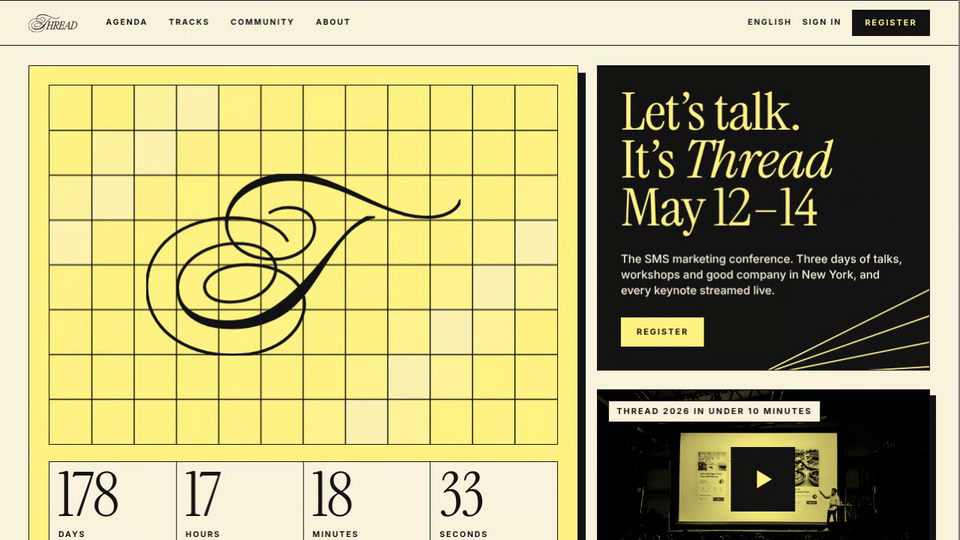
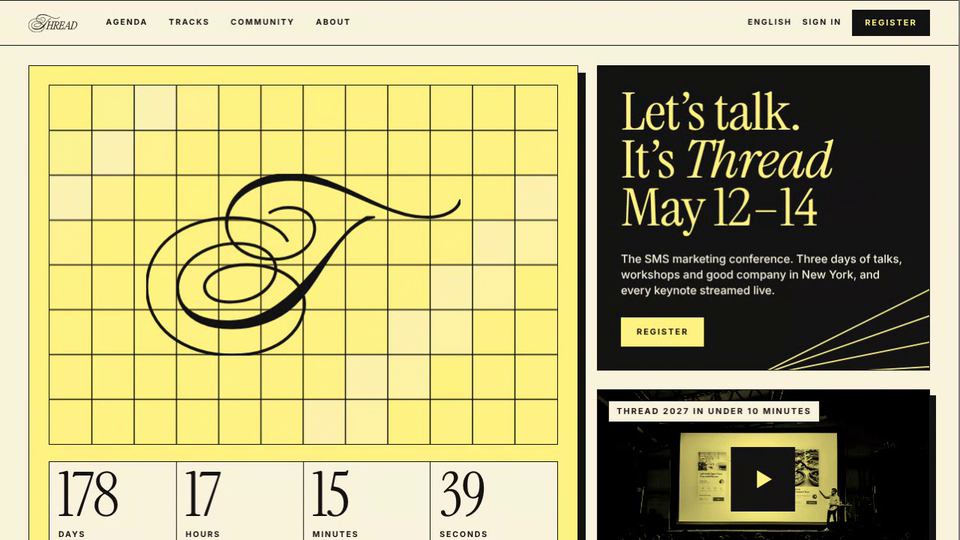
Thread Conference Landing Page: countdown to Thread 2027, no grid on the Connect card, footer says 2027 (#360)
Claude-Session: https://claude.ai/code/session_01AHeBe1E3DCKJgm5k1K7BVJ

diff --git a/thread-conference-landing/index.html b/thread-conference-landing/index.html
@@ -3,7 +3,7 @@
 <head>
 <meta charset="utf-8">
 <meta name="viewport" content="width=device-width, initial-scale=1">
-<title>Thread 2026 Landing Page</title>
+<title>Thread 2027 Landing Page</title>
 <link rel="preconnect" href="https://fonts.googleapis.com">
 <link href="https://fonts.googleapis.com/css2?family=Instrument+Serif:ital@0;1&family=Pinyon+Script&family=Inter:wght@400;500;600;700&display=swap" rel="stylesheet">
 <style>
@@ -116,9 +116,8 @@ header.site .btn{padding:11px 16px}
 .cd .loop{position:absolute;right:0;bottom:0;width:min(62%,520px);aspect-ratio:400/260;pointer-events:none}
 .cd.k{background:var(--ink);color:var(--yellow)}.cd.k p{color:var(--cream)}
 .cd.y{background:var(--yellow);box-shadow:10px 10px 0 var(--ink)}
-.cd .grid{position:absolute;right:0;top:0;width:40%;height:100%;opacity:.55;pointer-events:none}
-.cd>*{position:relative}.cd>.grid,.cd>.loop{position:absolute}
-@media (max-width:860px){.two{grid-template-columns:1fr}.cd .grid{width:80%;opacity:.35}}
+.cd>*{position:relative}.cd>.loop{position:absolute}
+@media (max-width:860px){.two{grid-template-columns:1fr}}
 /* footer */
 footer{display:flex;align-items:center;gap:26px;flex-wrap:wrap;padding:22px var(--gut);border-top:1.5px solid var(--ink);font:700 10.5px/1 var(--sans);letter-spacing:.16em;text-transform:uppercase}
 footer svg{height:22px;width:auto}
@@ -127,19 +126,19 @@ footer .r{margin-left:auto;display:flex;gap:16px}
 </style>
 </head>
 <body>
-<nav class="back" aria-label="Sandbox"><a href="../">Sandbox</a><span>/</span><a href="../">Back to all projects</a><span>/</span><b>Thread 2026 Landing Page</b></nav>
+<nav class="back" aria-label="Sandbox"><a href="../">Sandbox</a><span>/</span><a href="../">Back to all projects</a><span>/</span><b>Thread 2027 Landing Page</b></nav>
 
 <header class="site">
-  <a class="logo" href="#top" aria-label="Thread 2026"><svg class="wm" viewBox="673 5 2485 918" role="img" aria-hidden="true"></svg></a>
+  <a class="logo" href="#top" aria-label="Thread 2027"><svg class="wm" viewBox="673 5 2485 918" role="img" aria-hidden="true"></svg></a>
   <div class="links"><a href="#agenda">Agenda</a><a href="#tracks">Tracks</a><a href="#community">Community</a><a href="#about">About</a></div>
   <div class="r"><a class="t" href="#">English</a><a class="t" href="#">Sign in</a><a class="btn" href="#register">Register</a></div>
 </header>
 
 <main id="top">
 <section class="hero">
-  <div class="frame" aria-label="Countdown to Thread 2026">
+  <div class="frame" aria-label="Countdown to Thread 2027">
     <div class="art"><canvas id="bg" aria-hidden="true"></canvas><svg class="sw" viewBox="673 5 1587 918" role="img" aria-label="Thread"></svg></div>
-    <div class="count" id="count" role="timer" aria-label="Time until Thread 2026 begins">
+    <div class="count" id="count" role="timer" aria-label="Time until Thread 2027 begins">
       <div><b data-u="d">00</b><span>Days</span></div><div><b data-u="h">00</b><span>Hours</span></div>
       <div><b data-u="m">00</b><span>Minutes</span></div><div><b data-u="s">00</b><span>Seconds</span></div>
     </div>
@@ -151,9 +150,9 @@ footer .r{margin-left:auto;display:flex;gap:16px}
       <svg class="stripes" viewBox="0 0 200 120" fill="none" stroke="#fff383" stroke-width="1.5" aria-hidden="true"><path d="M0 120 200 20M0 120 200 50M0 120 200 80M0 120 200 108"/></svg>
       <a class="btn y" href="#register">Register</a>
     </div>
-    <a class="trailer" href="#about" aria-label="Watch Thread 2026 in under 10 minutes">
+    <a class="trailer" href="#about" aria-label="Watch Thread 2027 in under 10 minutes">
       <img src="photos/keynote.jpg" alt="A speaker presenting on a lit stage in front of a large screen and a dark audience">
-      <span class="lab cap">Thread 2026 in under 10 minutes</span>
+      <span class="lab cap">Thread 2027 in under 10 minutes</span>
       <span class="play"><svg viewBox="0 0 30 30" aria-hidden="true"><path d="M7 3v24l20-12z" fill="currentColor"/></svg></span>
     </a>
   </div>
@@ -184,16 +183,15 @@ footer .r{margin-left:auto;display:flex;gap:16px}
 </section>
 
 <section class="two" id="community">
-  <div class="cd k"><svg class="grid" viewBox="0 0 300 380" fill="none" stroke="#fff383" stroke-width="1.2" preserveAspectRatio="none" aria-hidden="true"><path d="M0 40H300M0 120H300M0 200H300M0 280H300M0 360H300M50 0V380M130 0V380M210 0V380M290 0V380"/></svg>
-    <canvas class="loop" id="loop" aria-hidden="true"></canvas>
+  <div class="cd k"><canvas class="loop" id="loop" aria-hidden="true"></canvas>
     <h2><span class="wide">Connect with marketers</span></h2><p>Join the Thread community of SMS marketers around the world: meetups, office hours and a very active group chat.</p><a class="btn y" href="#community">Find a community</a></div>
   <div class="cd y" id="about"><h2><span class="wide">Thread is open to everyone online</span></h2><p>Stay informed and get answers to your top questions, wherever you are.</p><a class="btn" href="#about">Learn about Thread</a></div>
 </section>
 </main>
 
 <footer>
-  <svg class="wm" viewBox="673 5 2485 918" aria-label="Thread 2026"></svg>
-  <a href="#">Thread 2025</a><a href="#">Privacy &amp; terms</a><a href="#">Code of conduct</a><a href="#">FAQ</a>
+  <svg class="wm" viewBox="673 5 2485 918" aria-label="Thread 2027"></svg>
+  <a href="#">Thread 2027</a><a href="#">Privacy &amp; terms</a><a href="#">Code of conduct</a><a href="#">FAQ</a>
   <div class="r"><a href="#">LinkedIn</a><a href="#">Instagram</a><a href="#">YouTube</a></div>
 </footer>
 
@@ -203,9 +201,8 @@ const LOGO_SWASH='M1297.63 203.139L1295.37 199.379C1306.9 191.357 1320.94 185.09
 const sp=d=>'<path d="'+d+'" fill="currentColor" stroke="currentColor" stroke-width="10.5" stroke-linejoin="round"/>';
 document.querySelectorAll('svg.wm').forEach(s=>s.innerHTML=sp(LOGO_SWASH)+sp(LOGO_WORD));
 document.querySelectorAll('svg.sw').forEach(s=>s.innerHTML=sp(LOGO_SWASH));
-/* countdown to the next May 12, 9:00 ET */
-const nextEvent=()=>{const n=new Date();let y=n.getFullYear(),t=Date.UTC(y,4,12,13);if(t<n)t=Date.UTC(y+1,4,12,13);return t};
-const EV=nextEvent(),cnt=document.getElementById('count'),pad=v=>String(v).padStart(2,'0');
+/* countdown to Thread 2027: May 12, 2027, 9:00 ET */
+const EV=Date.UTC(2027,4,12,13),cnt=document.getElementById('count'),pad=v=>String(v).padStart(2,'0');
 function tick(){let s=Math.max(0,Math.floor((EV-Date.now())/1000));const v={d:Math.floor(s/86400),h:Math.floor(s%86400/3600),m:Math.floor(s%3600/60),s:s%60};
  for(const k in v)cnt.querySelector('[data-u='+k+']').textContent=pad(v[k])}
 tick();setInterval(tick,1000);
@@ -234,7 +231,7 @@ document.querySelectorAll('svg[data-art]').forEach((s,n)=>{const g=s.innerHTML,i
   if(!reduce)requestAnimationFrame(frame)}
  addEventListener('resize',()=>{size();if(reduce)frame(0)});size();requestAnimationFrame(frame)})();
 /* ticker */
-const w=['Thread 2026','May 12–14','New York','The SMS marketing conference'];
+const w=['Thread 2027','May 12–14','New York','The SMS marketing conference'];
 document.getElementById('tk').innerHTML=Array(16).fill(w).flat().map(t=>'<span>'+t+'</span>').join('');
 /* save toggles */
 document.querySelectorAll('.sv').forEach(b=>b.addEventListener('click',()=>{const on=b.getAttribute('aria-pressed')!=='true';b.setAttribute('aria-pressed',on);b.textContent=on?'Saved ✓':'Save to My Thread'}));
